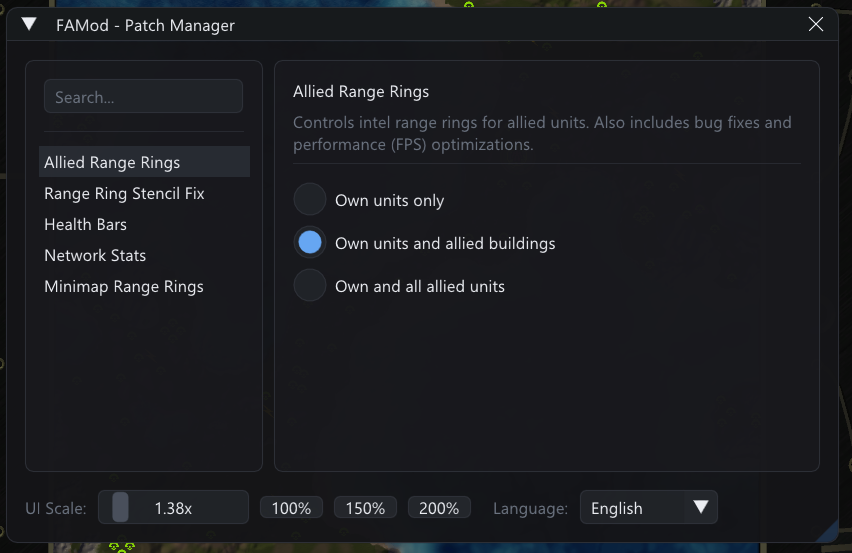
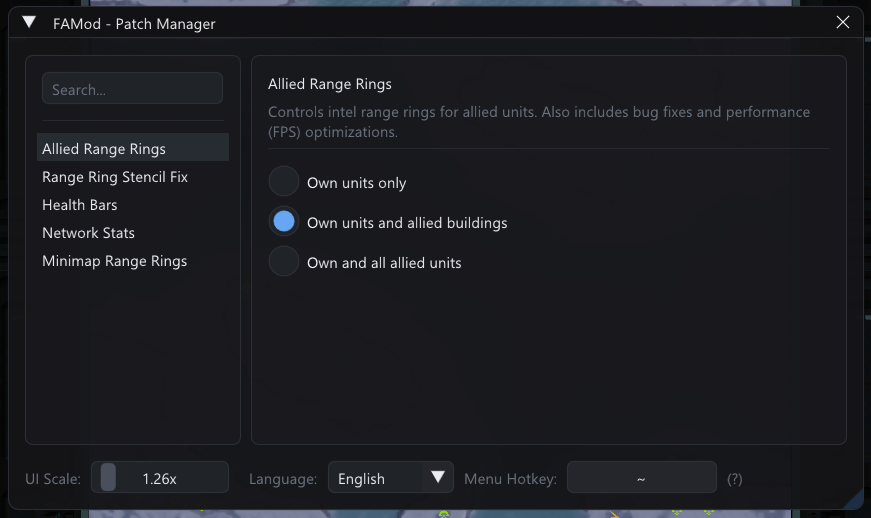
feat: implement hotkey-change  system & console command `famod`

diff --git a/README.md b/README.md
@@ -1,18 +1,18 @@
-# FAMod — Forged Alliance Binary Enhancement Suite
+# FAmod — Forged Alliance Binary Enhancement Suite
 
 [![Language](https://img.shields.io/badge/C%2B%2B-23-blue.svg)](https://en.cppreference.com/w/cpp/23)
 [![Build](https://img.shields.io/badge/build-xmake-orange.svg)](https://xmake.io)
 [![Target](https://img.shields.io/badge/target-FAForever-red.svg)]()
 [![License](https://img.shields.io/badge/license-MIT-green.svg)](LICENSE)
 
-**FAMod** is a lightweight in-game enhancement mod and binary patch suite for **[FAForever (Forged Alliance Forever)](https://faforever.com/)**.
+**FAmod** is a lightweight in-game enhancement mod and binary patch suite for **[FAForever (Forged Alliance Forever)](https://faforever.com/)**.
 
 > [!IMPORTANT]
-> **Compatibility Notice**: FAMod is currently compatible **only with FAForever (FAF)**. It targets the engine modifications and structures present in FAForever's patched binary and will **not** work on vanilla Steam, GOG, or retail CD versions (non-FAF executables are automatically detected and rejected to prevent crashes).
+> **Compatibility Notice**: FAmod is currently compatible **only with FAForever (FAF)**. It targets the engine modifications and structures present in FAForever's patched binary and will **not** work on vanilla Steam, GOG, or retail CD versions (non-FAF executables are automatically detected and rejected to prevent crashes).
 
 **In-Game GUI**: Press **`~` (Tilde)** at any time to configure patches
 
-![FAMod Patch Manager Window](docs/screenshots/main_window.png)
+![FAmod Patch Manager Window](docs/screenshots/main_window.png)
 
 ---
 
@@ -23,20 +23,21 @@
 1. Download the latest **`dsound.dll`** from the [Releases](https://github.com/RutreD/FAmod/releases) page.
 2. Place `dsound.dll` directly into your FAForever binary directory alongside `ForgedAlliance.exe`.
    > **Default FAF Path**: `C:\ProgramData\FAForever\bin`
-   * **Replays**: To make FAMod work when watching replays, also copy `dsound.dll` into the replay binary directory:
+   * **Replays**: To make FAmod work when watching replays, also copy `dsound.dll` into the replay binary directory:
      > **Default Replay Path**: `C:\ProgramData\FAForever\replaydata\bin`
 3. Launch the game via the **FAForever Client** and play as usual!
 
 ### Using the In-Game Menu
 
-* Press **`~` (Tilde / Backquote)** on your keyboard at any time in-game to toggle the configuration menu.
+* Press **`~` (Tilde / Backquote)** on your keyboard at any time in-game to toggle the configuration menu. You can rebind this hotkey in the settings.
+* **Lost your hotkey?** You can always open the game's built-in console and type `famod` to force open the configuration menu.
 * **UI Scaling**: If you play on a high-DPI (2K / 4K) monitor, use the UI scale slider in the top bar to resize the menu comfortably.
 * **Languages**: Full built-in localization in **English**, **Русский (Russian)**, and **简体中文 (Simplified Chinese)**.
 * **Auto-Save**: All changes are automatically persisted to `famod_settings.json` in your game folder.
 
 ### Uninstallation
 
-To remove FAMod, simply delete `dsound.dll` and `famod_settings.json` from your `FAForever\bin` folder (and from `FAForever\replaydata\bin` if installed for replays).
+To remove FAmod, simply delete `dsound.dll` and `famod_settings.json` from your `FAForever\bin` folder (and from `FAForever\replaydata\bin` if installed for replays).
 
 ---
 
@@ -48,7 +49,7 @@ To remove FAMod, simply delete `dsound.dll` and `famod_settings.json` from your 
   - **Own units only**: Standard vanilla behavior.
   - **Own units and allied static structures**: Shows allied radar towers, sonars, and bases without cluttering the screen with mobile units.
   - **Own and all allied units**: Full vision coverage for all allied units and structures.
-* **Preview** *(Vanilla vs. FAMod Enabled)*:
+* **Preview** *(Vanilla vs. FAmod Enabled)*:
 
   **Allied Buildings**
   ![Allied Buildings](docs/screenshots/allied_rings_structures.png)
@@ -92,14 +93,14 @@ To remove FAMod, simply delete `dsound.dll` and `famod_settings.json` from your 
 ## ❓ Frequently Asked Questions (FAQ)
 
 <details>
-<summary><b>Why should I trust FAMod? / Is this safe? / My antivirus flagged dsound.dll</b></summary>
-FAMod is completely open-source (MIT licensed) and fully transparent. All binary builds are built publicly through <b>GitHub Actions</b> directly from the codebase. You don't have to trust opaque prebuilt binaries: you can inspect every line of code, verify GitHub Actions build logs, or build the DLL yourself locally or in your own GitHub fork.
-Because FAMod uses a standard DirectX proxy DLL technique (named <code>dsound.dll</code>) to load alongside <code>ForgedAlliance.exe</code>, some overly aggressive heuristics may flag it as unknown. The entire project is open source, safe, and can be built from source yourself.
+<summary><b>Why should I trust FAmod? / Is this safe? / My antivirus flagged dsound.dll</b></summary>
+FAmod is completely open-source (MIT licensed) and fully transparent. All binary builds are built publicly through <b>GitHub Actions</b> directly from the codebase. You don't have to trust opaque prebuilt binaries: you can inspect every line of code, verify GitHub Actions build logs, or build the DLL yourself locally or in your own GitHub fork.
+Because FAmod uses a standard DirectX proxy DLL technique (named <code>dsound.dll</code>) to load alongside <code>ForgedAlliance.exe</code>, some overly aggressive heuristics may flag it as unknown. The entire project is open source, safe, and can be built from source yourself.
 </details>
 
 <details>
-<summary><b>Can I use FAMod with the Steam or GOG version of Supreme Commander: Forged Alliance?</b></summary>
-No. FAMod is designed specifically for <b>FAForever (FAF)</b> and relies on the patched engine binaries generated by the FAF ecosystem. Running FAMod with unpatched Steam, GOG, or retail versions is not supported — FAMod will automatically detect the executable format and gracefully abort initialization to prevent game crashes.
+<summary><b>Can I use FAmod with the Steam or GOG version of Supreme Commander: Forged Alliance?</b></summary>
+No. FAmod is designed specifically for <b>FAForever (FAF)</b> and relies on the patched engine binaries generated by the FAF ecosystem. Running FAmod with unpatched Steam, GOG, or retail versions is not supported — FAmod will automatically detect the executable format and gracefully abort initialization to prevent game crashes.
 </details>
 
 <details>
@@ -131,6 +132,12 @@ You can build your own `dsound.dll` in the cloud without installing compilers or
 ---
 
 ## 🛠 Local Building & Toolchain Setup
+
+### Prerequisites
+
+To build the project locally, you will need to install the following tools:
+1. **[Xmake](https://xmake.io/#/guide/installation)** — The build system used for this project.
+2. A C++23 compatible compiler, such as **[MSVC (Visual Studio)](https://visualstudio.microsoft.com/)**, **[LLVM/Clang](https://github.com/llvm/llvm-project)**, or **[MinGW-w64 i686 (niXman builds)](https://github.com/niXman/mingw-builds-binaries)**.
 
 ### Tested Compilers & Versions
 
